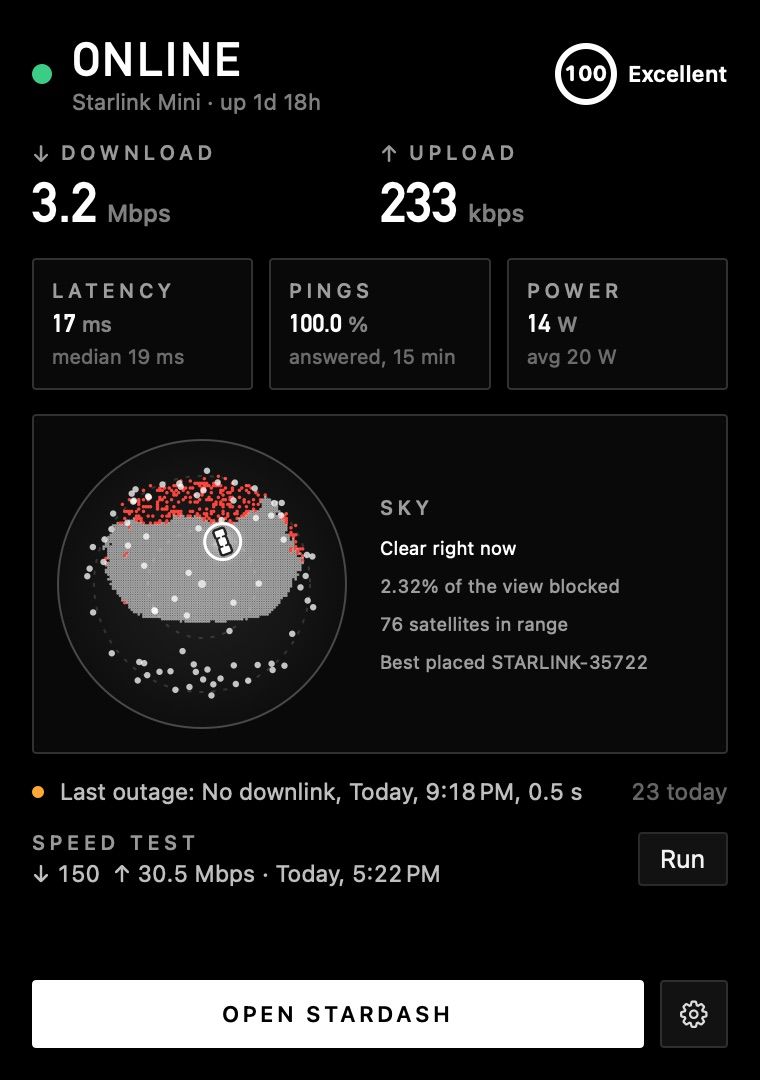
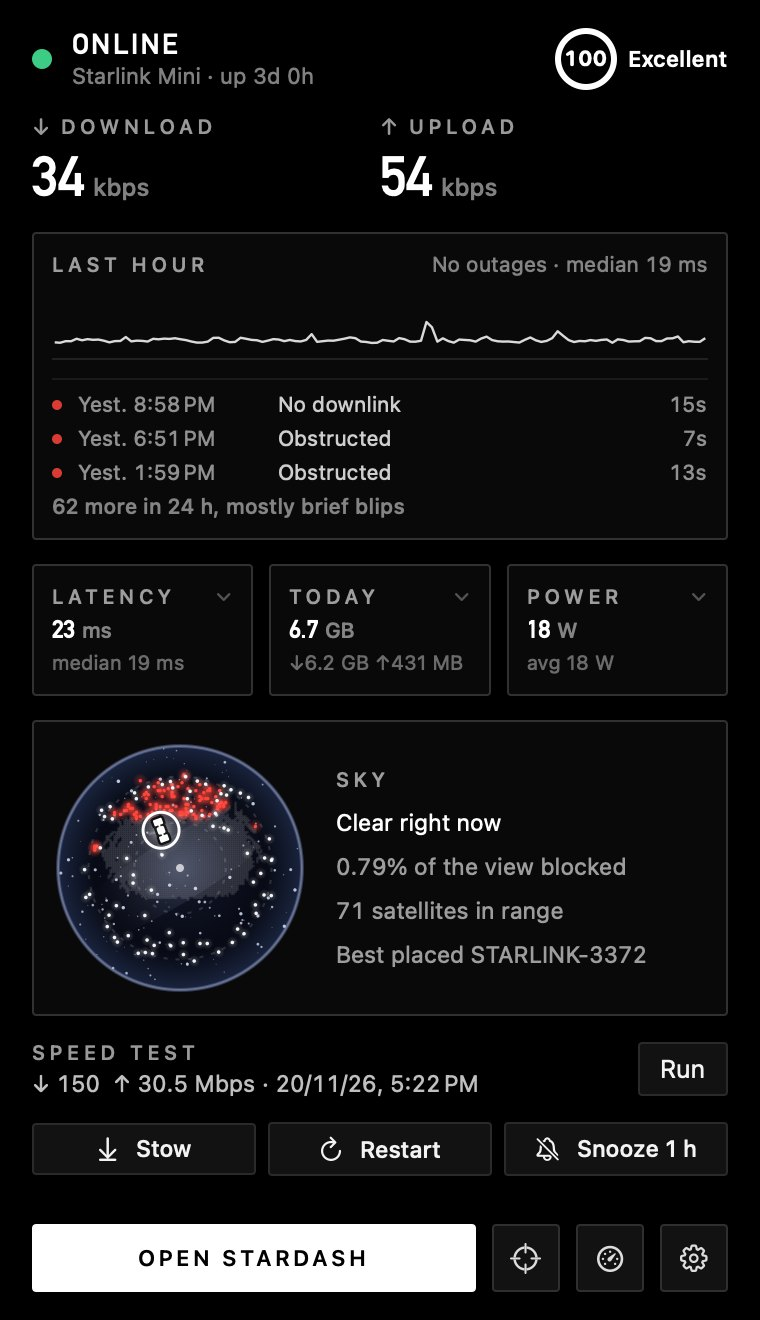
Describe StarDash as a dashboard with a menu bar glance; refresh popover and share images

diff --git a/site/public/index.html b/site/public/index.html
@@ -4,7 +4,7 @@
 <meta charset="utf-8">
 <meta name="viewport" content="width=device-width, initial-scale=1">
 <title>StarDash · Starlink monitor for macOS</title>
-<meta name="description" content="A free, open-source macOS menu bar app for your Starlink dish. Live speed, latency, outages, the obstruction map and the satellites overhead, read straight from your dish over the local network.">
+<meta name="description" content="A free, open-source Starlink monitor for macOS: a full dashboard window, with live numbers in the menu bar. Speed, latency, outages, the obstruction map and the satellites overhead, read straight from your dish over the local network.">
 <meta name="theme-color" content="#000000">
 <link rel="canonical" href="https://stardash.nixify.app/">
 <link rel="icon" href="/icon.svg" type="image/svg+xml">
@@ -12,22 +12,22 @@
 <meta property="og:type" content="website">
 <meta property="og:site_name" content="StarDash">
 <meta property="og:title" content="StarDash · Starlink monitor for macOS">
-<meta property="og:description" content="Your Starlink dish, in your menu bar. Free and open source for macOS.">
+<meta property="og:description" content="Your Starlink dish, on your Mac. A free, open-source dashboard with live numbers in the menu bar.">
 <meta property="og:image" content="https://stardash.nixify.app/og.png">
 <meta property="og:image:width" content="1200">
 <meta property="og:image:height" content="630">
-<meta property="og:image:alt" content="StarDash: live Starlink stats in the macOS menu bar">
+<meta property="og:image:alt" content="StarDash: a Starlink dashboard for macOS">
 <meta property="og:url" content="https://stardash.nixify.app/">
 <meta name="twitter:card" content="summary_large_image">
 <meta name="twitter:title" content="StarDash · Starlink monitor for macOS">
-<meta name="twitter:description" content="Your Starlink dish, in your menu bar. Free and open source for macOS.">
+<meta name="twitter:description" content="Your Starlink dish, on your Mac. A free, open-source dashboard with live numbers in the menu bar.">
 <meta name="twitter:image" content="https://stardash.nixify.app/og.png">
 <script type="application/ld+json">
 {
   "@context": "https://schema.org",
   "@type": "SoftwareApplication",
   "name": "StarDash",
-  "description": "A free, open-source macOS menu bar app for Starlink. It reads live speed, latency, outages, power draw and the obstruction map straight from the dish over the local network, and shows the Starlink satellites overhead.",
+  "description": "A free, open-source Starlink monitor for macOS, with a full dashboard window and live numbers in the menu bar. It reads live speed, latency, outages, power draw and the obstruction map straight from the dish over the local network, and shows the Starlink satellites overhead.",
   "url": "https://stardash.nixify.app/",
   "downloadUrl": "https://github.com/sarequl/stardash/releases/latest/download/StarDash.dmg",
   "applicationCategory": "UtilitiesApplication",
@@ -228,8 +228,8 @@
 <main>
   <div class="wrap hero">
     <img class="icon" src="/icon.svg" alt="StarDash icon" width="84" height="84">
-    <h1>Your Starlink dish, in&nbsp;your menu bar.</h1>
-    <p class="lede">A native macOS app that reads your dish and router over the local network. Speed, latency, outages, the obstruction map and the satellites overhead, live.</p>
+    <h1>Your Starlink dish, on&nbsp;your&nbsp;Mac.</h1>
+    <p class="lede">A native macOS app that reads your dish and router over the local network. Open the dashboard for the sky, outages, devices and speed tests. Glance at the menu bar for the live numbers.</p>
     <div class="ctas">
       <a class="btn primary dl" href="https://github.com/sarequl/stardash/releases/latest/download/StarDash.dmg">
         <svg viewBox="0 0 24 24" fill="currentColor" aria-hidden="true"><path d="M16.37 12.6c-.02-2.3 1.88-3.4 1.96-3.46-1.07-1.56-2.73-1.78-3.32-1.8-1.41-.14-2.76.83-3.48.83-.72 0-1.82-.81-3-.79-1.54.02-2.96.9-3.75 2.27-1.6 2.78-.41 6.89 1.15 9.14.76 1.1 1.67 2.34 2.86 2.3 1.15-.05 1.58-.74 2.97-.74 1.38 0 1.77.74 2.98.72 1.23-.02 2.01-1.12 2.77-2.23.87-1.28 1.23-2.52 1.25-2.58-.03-.01-2.4-.92-2.42-3.66zM14.1 5.86c.63-.77 1.06-1.83.94-2.9-.91.04-2.02.61-2.67 1.37-.58.67-1.1 1.76-.96 2.8 1.02.08 2.06-.52 2.69-1.27z"/></svg>
@@ -256,7 +256,7 @@
         <div class="caps">Menu bar</div>
         <div class="head" style="margin-bottom:0">
           <h2>Everything at a glance. Nothing in the way.</h2>
-          <p>Pick what sits next to the clock: latency, throughput, power draw, obstruction, outages or a latency sparkline. Click for the full picture.</p>
+          <p>Pick what sits next to the clock: latency, throughput, data used today, power draw, obstruction, outages or a latency sparkline. Click it for the last hour without opening the window.</p>
         </div>
         <div class="menubar" aria-label="Example menu bar readout">
           <span class="dot"></span><img src="/glyph.svg" alt=""><span>18 ms</span>
@@ -265,10 +265,10 @@
         <ul class="ticks">
           <li><b>Live numbers</b>, refreshed every second while you're looking.</li>
           <li><b>Outage alerts</b> when the link drops and again when it's back, with short blips filtered out.</li>
-          <li><b>A health score</b> that sums up the last few minutes in one number.</li>
+          <li><b>Tap a tile</b> for its last 24 hours, or check the most recent outages.</li>
         </ul>
       </div>
-      <img class="popover reveal" src="/img/popover.jpg" width="380" height="540" alt="The StarDash popover with download and upload speed, latency, pings, power and a small sky chart." loading="lazy">
+      <img class="popover reveal" src="/img/popover.jpg" width="380" height="660" alt="The StarDash popover with live speed, the last hour of latency and outages, today's data, power and a night-sky chart." loading="lazy">
     </div>
   </section>
 

diff --git a/README.md b/README.md
@@ -2,15 +2,16 @@
 
 # StarDash
 
-A native macOS monitor for Starlink. It lives in the menu bar and talks to your dish and router
-over the local network. Everything works without a Starlink account. Signing in is optional and
+A native macOS monitor for Starlink, with a full dashboard window and live numbers in the menu bar.
+It talks to your dish and router over the local network. Everything works without a Starlink account. Signing in is optional and
 adds the features that only exist in the cloud, like billing usage and router settings.
 
 ![Dashboard](docs/screenshots/dashboard.png)
 
 ## What it shows
 
-- Live throughput, latency, packet loss and power draw in the menu bar, with a one-screen popover.
+- Live throughput, latency, packet loss and power draw in the menu bar. The popover shows the last hour,
+  recent outages and 24-hour charts, with quick actions to stow, restart or snooze alerts.
 - The dish's obstruction map as a flat chart, a horizon view and a 3D dome, with a time-lapse of how it filled in.
 - The Starlink satellites overhead right now, computed from public orbit data, and the one the dish is most likely using.
   The 3D view puts the dish under a night sky and links it to that satellite.
